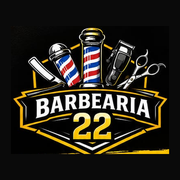
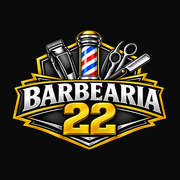
Add files via upload

diff --git a/app/logo.tsx b/app/logo.tsx
@@ -6,7 +6,7 @@ export function Logo({ width = 160, priority = false }: { width?: number; priori
       src="/logo.png"
       alt="Barbearia 22"
       width={width}
-      height={Math.round((width * 314) / 388)}
+      height={Math.round((width * 697) / 900)}
       priority={priority}
       className="h-auto"
     />
